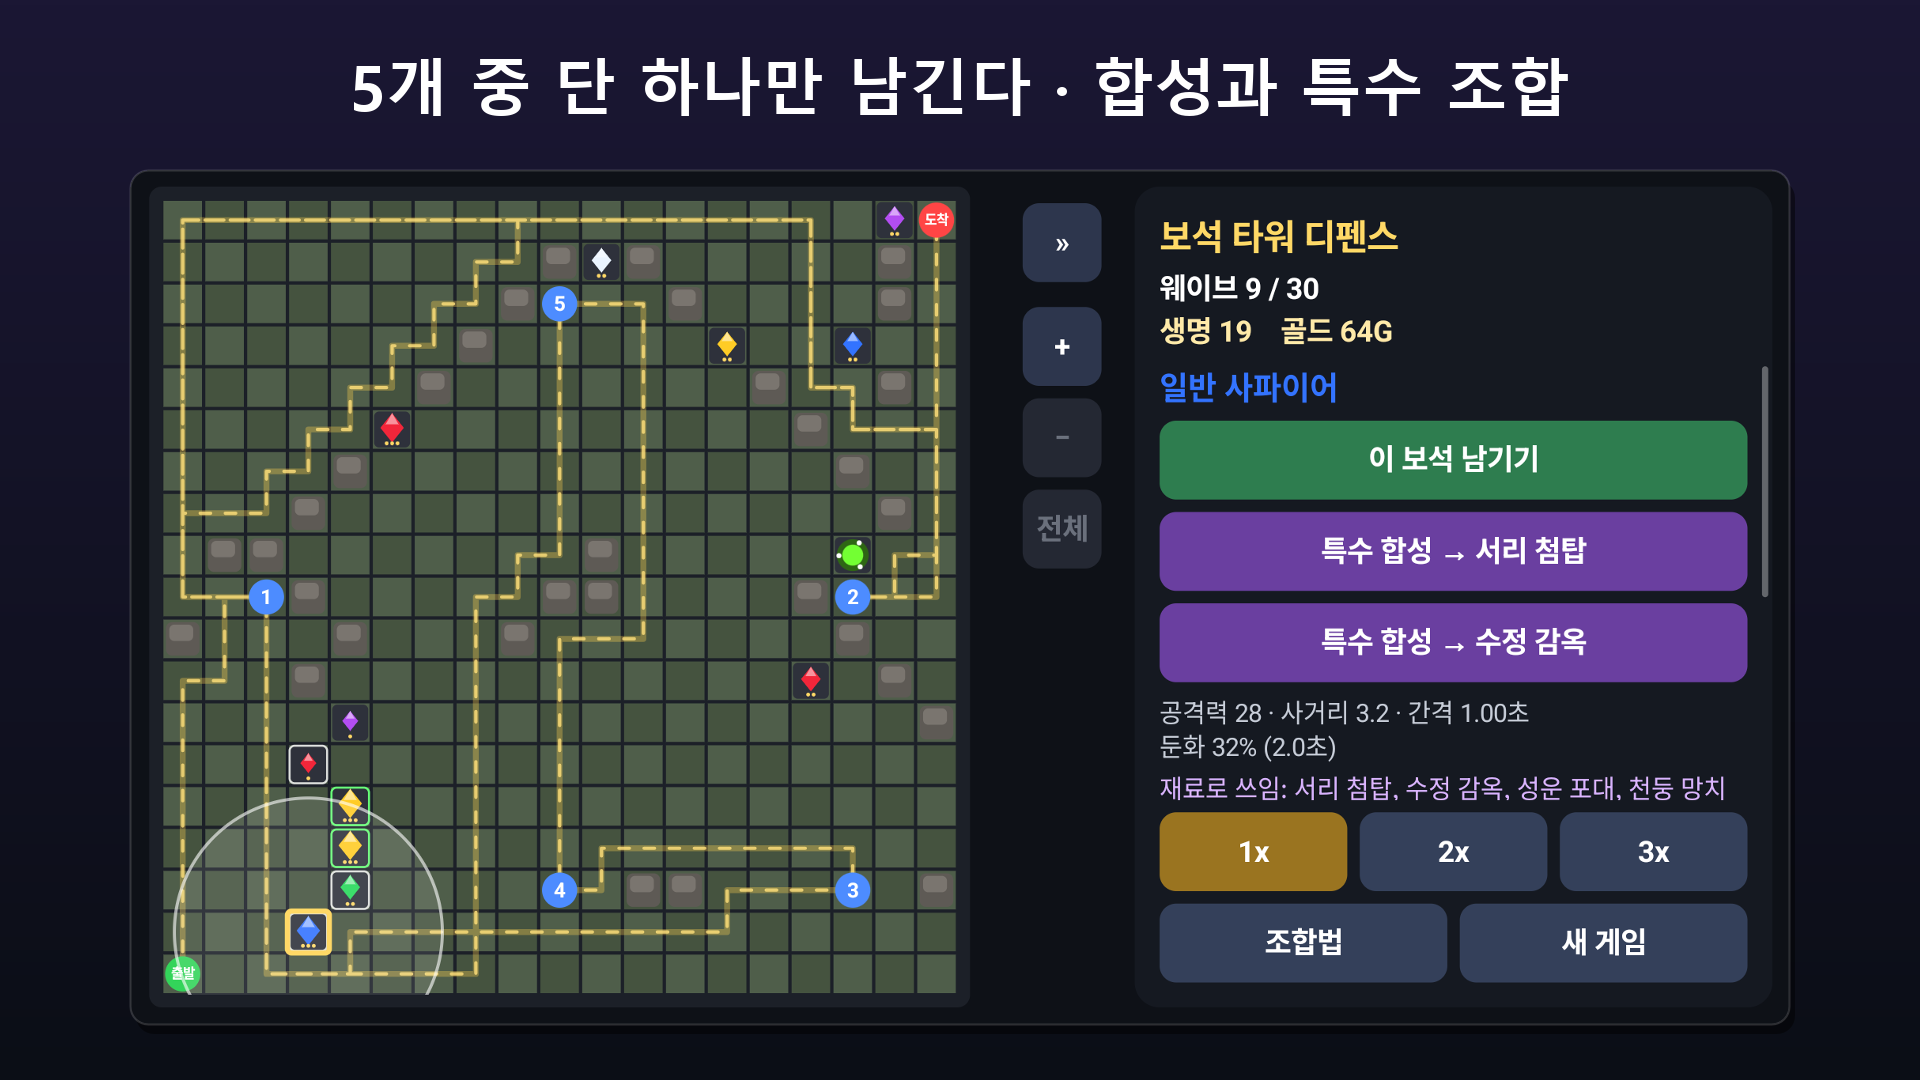
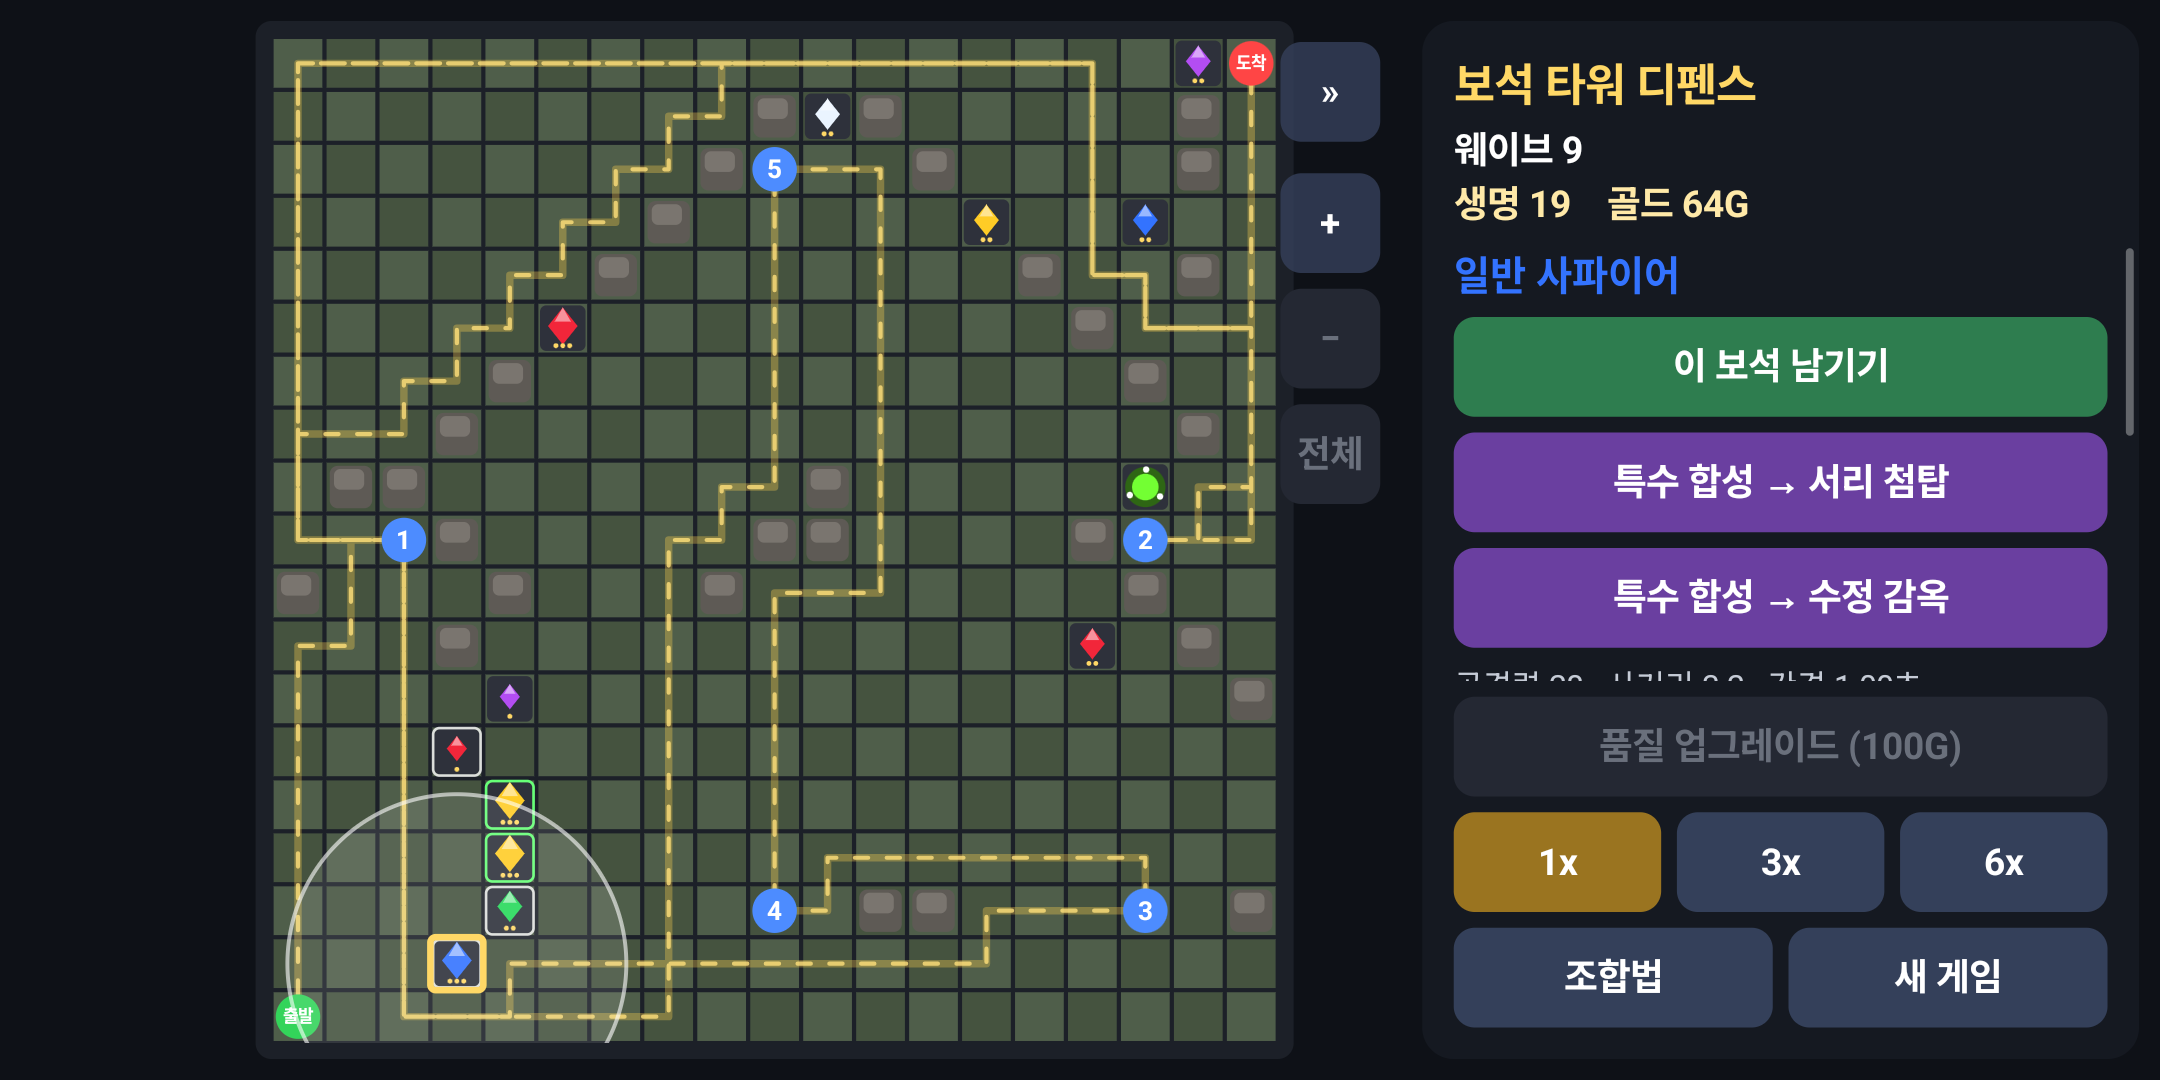
16:9 화면 버튼 겹침 수정, 스토어 스크린샷 갱신, 버전 1.0.7 (7)
- 보드가 오른쪽 버튼 열을 피해서 배치되도록 수정
- 첫 화면과 기록 화면을 포함한 스토어 스크린샷 6장으로 갱신
- 스크린샷용 첫 화면 장면 추가

diff --git a/app/src/main/java/com/tambusrin/gemtower/GameView.kt b/app/src/main/java/com/tambusrin/gemtower/GameView.kt
@@ -219,6 +219,12 @@ class GameView(context: Context) : View(context) {
         if (!keepRecords) game.onFinished = null
     }
 
+    /** 스크린샷용: 예시 기록이 있는 시작 화면 */
+    internal fun debugShowTitle(list: List<GameRecord>) {
+        records = list
+        screen = Screen.TITLE
+    }
+
     /** 스크린샷용: 저장하지 않고 예시 기록을 보여 줌 */
     internal fun debugShowRecords(list: List<GameRecord>, highlight: Int) {
         records = list
@@ -273,6 +279,11 @@ class GameView(context: Context) : View(context) {
         computeLayout()
     }
 
+    /** 오른쪽 버튼 열이 차지하는 폭. 보드는 이 영역을 피해서 배치됨 */
+    private val controlsW get() = dp(if (panelHidden) 128f else 50f)
+    private val boardRight get() = max(viewRect.left + dp(40f), viewRect.right - controlsW)
+    private val boardCenterX get() = (viewRect.left + boardRight) / 2f
+
     private fun computeLayout() {
         if (width == 0 || height == 0) return
         val pad = dp(8f)
@@ -292,16 +303,16 @@ class GameView(context: Context) : View(context) {
         }
 
         // 최소 배율 = 보드 전체가 창에 들어옴, 기본 배율 = 칸이 손가락으로 누르기 좋은 크기
-        minCs = min(viewRect.width() / (Game.W + 0.6f), viewRect.height() / (Game.H + 0.6f))
+        minCs = min((boardRight - viewRect.left) / (Game.W + 0.6f), viewRect.height() / (Game.H + 0.6f))
         maxCs = max(minCs, dp(72f))
         if (!zoomInit) {
             cs = if (startZoomFit) minCs else dp(DEFAULT_CELL_DP).coerceIn(minCs, maxCs)
-            ox = viewRect.centerX() - cs * Game.W / 2f
+            ox = boardCenterX - cs * Game.W / 2f
             oy = viewRect.centerY() - cs * Game.H / 2f
             zoomInit = true
         } else {
             val n = cs.coerceIn(minCs, maxCs)
-            if (n != cs) zoomAt(viewRect.centerX(), viewRect.centerY(), n / cs)
+            if (n != cs) zoomAt(boardCenterX, viewRect.centerY(), n / cs)
         }
         clampPan()
     }
@@ -311,8 +322,8 @@ class GameView(context: Context) : View(context) {
         val m = cs * 0.3f
         val bw = cs * Game.W
         val bh = cs * Game.H
-        ox = if (bw + 2 * m <= viewRect.width()) viewRect.centerX() - bw / 2f
-        else ox.coerceIn(viewRect.right - m - bw, viewRect.left + m)
+        ox = if (bw + 2 * m <= boardRight - viewRect.left) boardCenterX - bw / 2f
+        else ox.coerceIn(boardRight - m - bw, viewRect.left + m)
         oy = if (bh + 2 * m <= viewRect.height()) viewRect.centerY() - bh / 2f
         else oy.coerceIn(viewRect.bottom - m - bh, viewRect.top + m)
         boardRect.set(ox, oy, ox + bw, oy + bh)
@@ -339,9 +350,9 @@ class GameView(context: Context) : View(context) {
         sideRect.setEmpty()
         if (showRecipes) return
         val gap = dp(6f)
-        val zoomIn = { zoomAt(viewRect.centerX(), viewRect.centerY(), 1.35f) }
-        val zoomOut = { zoomAt(viewRect.centerX(), viewRect.centerY(), 1f / 1.35f) }
-        val zoomFit = { zoomAt(viewRect.centerX(), viewRect.centerY(), minCs / cs) }
+        val zoomIn = { zoomAt(boardCenterX, viewRect.centerY(), 1.35f) }
+        val zoomOut = { zoomAt(boardCenterX, viewRect.centerY(), 1f / 1.35f) }
+        val zoomFit = { zoomAt(boardCenterX, viewRect.centerY(), minCs / cs) }
 
         if (!panelHidden) {
             val s = dp(38f)

diff --git a/app/src/debug/java/com/tambusrin/gemtower/ScreenshotActivity.kt b/app/src/debug/java/com/tambusrin/gemtower/ScreenshotActivity.kt
@@ -26,7 +26,7 @@ import kotlin.random.Random
 
 /**
  * 스토어 스크린샷 촬영용 화면 (debug 빌드에만 포함됨).
- * adb shell am start -n com.tambusrin.gemtower/.ScreenshotActivity --es scene maze|choose|recipes|boss
+ * adb shell am start -n com.tambusrin.gemtower/.ScreenshotActivity --es scene title|maze|choose|recipes|boss|records
  */
 class ScreenshotActivity : Activity() {
     private lateinit var view: GameView
@@ -68,12 +68,8 @@ class ScreenshotActivity : Activity() {
                 view.debugSetSpeed(3)
                 g.debugStartWave()
             }
-            "records" -> view.debugShowRecords(
-                List(10) { i ->
-                    GameRecord.of(8.4e9 / (1 shl i), 96.0 + i * 7, 1420.0 - i * 60, 18 - i, 240 - i * 13, 62 - i * 4, false)
-                },
-                highlight = 2,
-            )
+            "title" -> view.debugShowTitle(sampleRecords())
+            "records" -> view.debugShowRecords(sampleRecords().take(9), highlight = 2)
             "maze" -> {
                 g.debugSetup(wave = 17, gold = 85, chanceLevel = 6, lives = 18)
                 buildMaze(g, 70, lateGems, rng)
@@ -137,6 +133,10 @@ class ScreenshotActivity : Activity() {
                 if (scene == "recipes") view.debugShowRecipes()
             }
         }
+    }
+
+    private fun sampleRecords() = List(10) { i ->
+        GameRecord.of(8.4e9 / (1 shl i), 96.0 + i * 7, 1420.0 - i * 60, 18 - i, 240 - i * 13, 62 - i * 4, false)
     }
 
     /** 경로를 가장 길게 만드는 칸 n개 (동점이면 무작위) */
